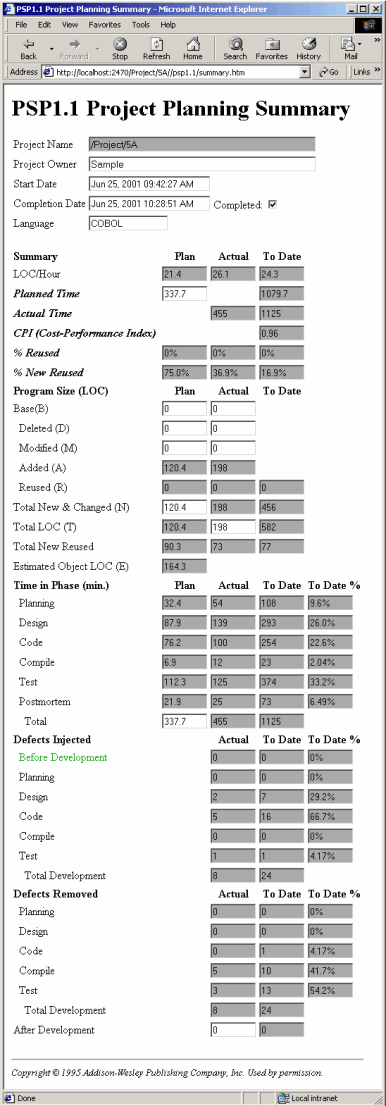
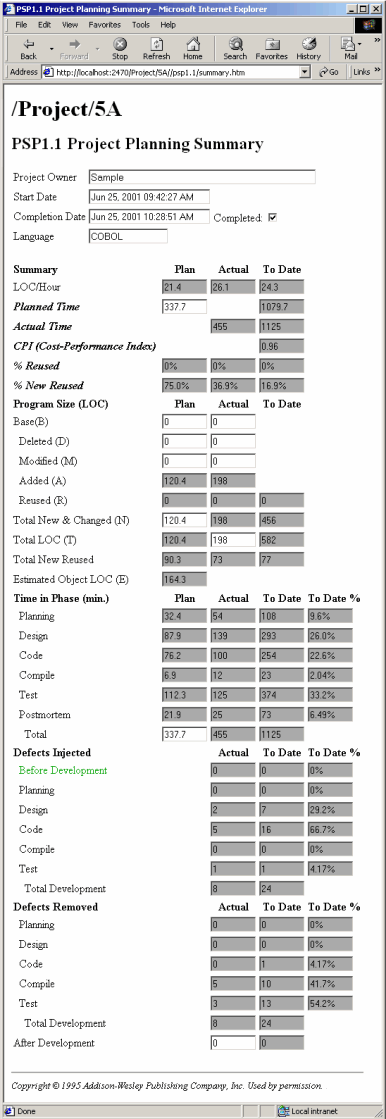
Use new #echo directive to include the name of the project in the plan summary as HTML, not as a form element.
git-svn-id: https://svn.code.sf.net/p/processdash/code/trunk@652 560cad82-bde2-470f-af40-e4e1f8d6548a

Changed region(s): [[0.0, 0.0307, 0.9948, 0.9837], [0.9326, 0.0, 0.9637, 0.0307]]

diff --git a/pspdash/Templates/psp3/cyclesum.java b/pspdash/Templates/psp3/cyclesum.java
@@ -45,7 +45,7 @@ public class cyclesum extends pspdash.TinyCGIBase {
 
     private synchronized void init() throws IOException {
         try {
-            String uri = "/0" + env.get("SCRIPT_NAME");
+            String uri = (String) env.get("SCRIPT_NAME");
             uri = uri.substring(0, uri.length() - 6) + ".htm";
             String text = new String(getRequest(uri, true));
 
@@ -126,6 +126,8 @@ public class cyclesum extends pspdash.TinyCGIBase {
             text = replace(text, PLAN_TAG, "Actual");
             text = replace(text, EST_TEXT, "");
         }
+        text = replace(text, "PATH_TRANSLATED",
+                       (String) env.get("PATH_TRANSLATED"));
         out.print(text);
     }
 
